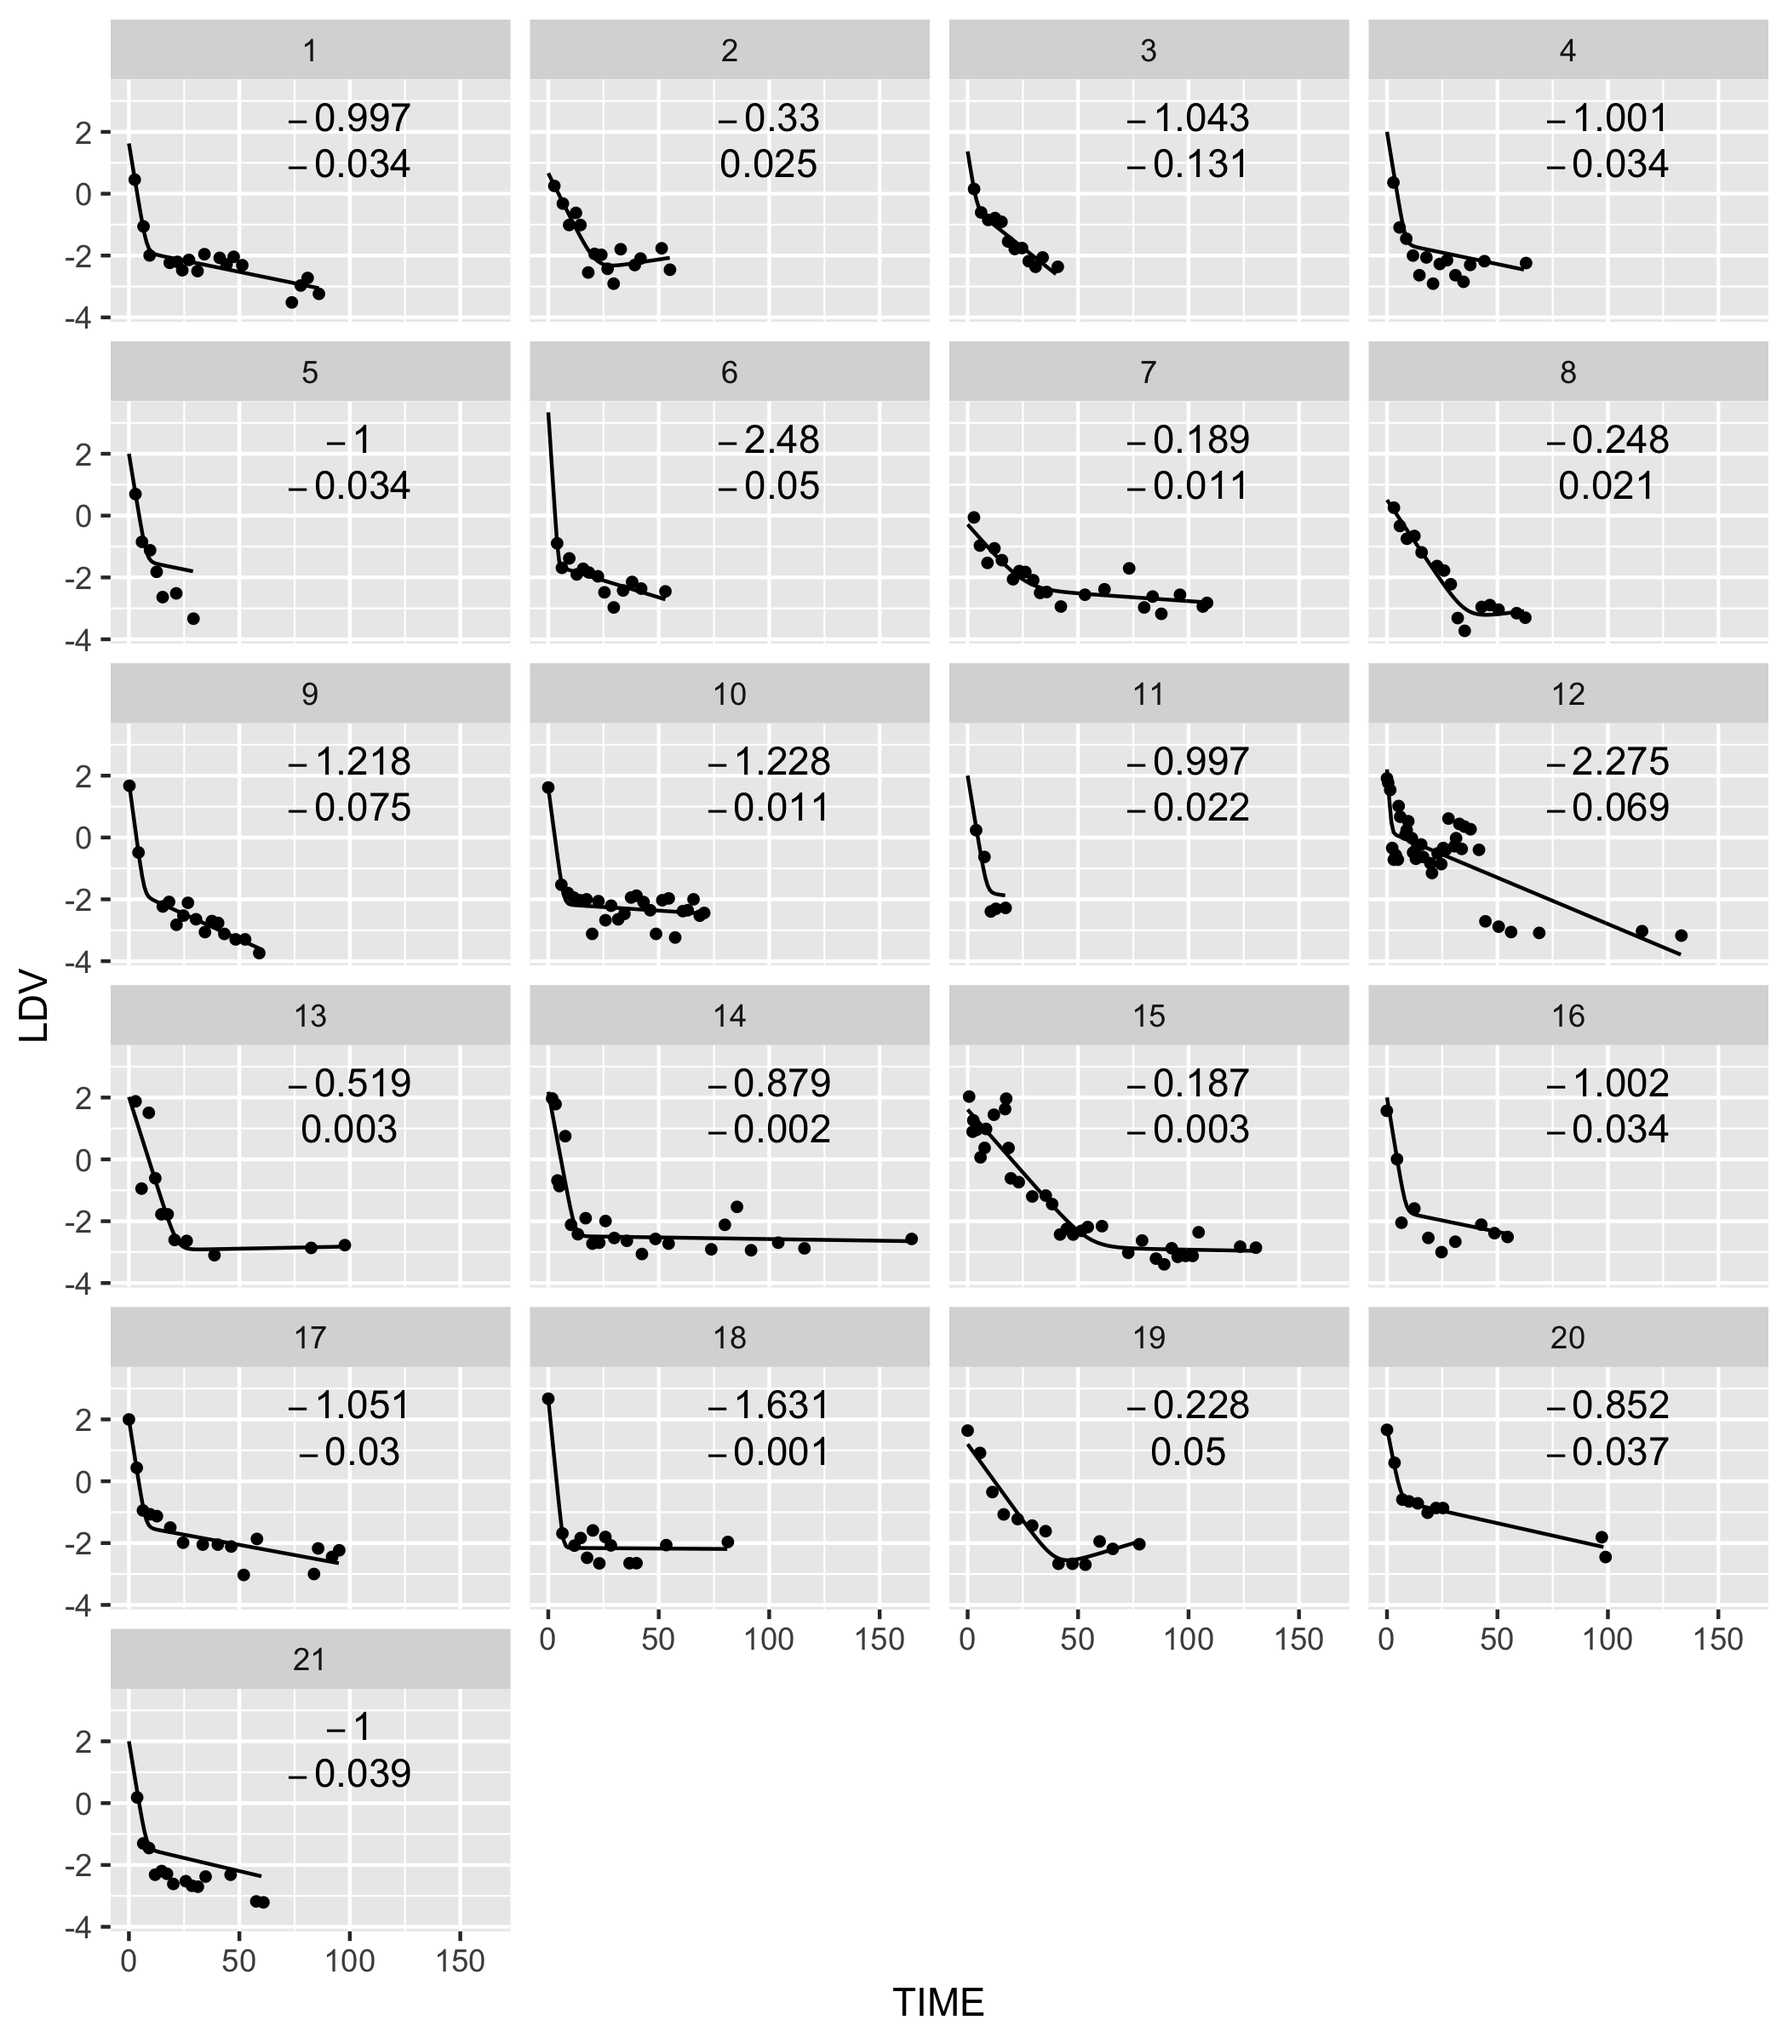
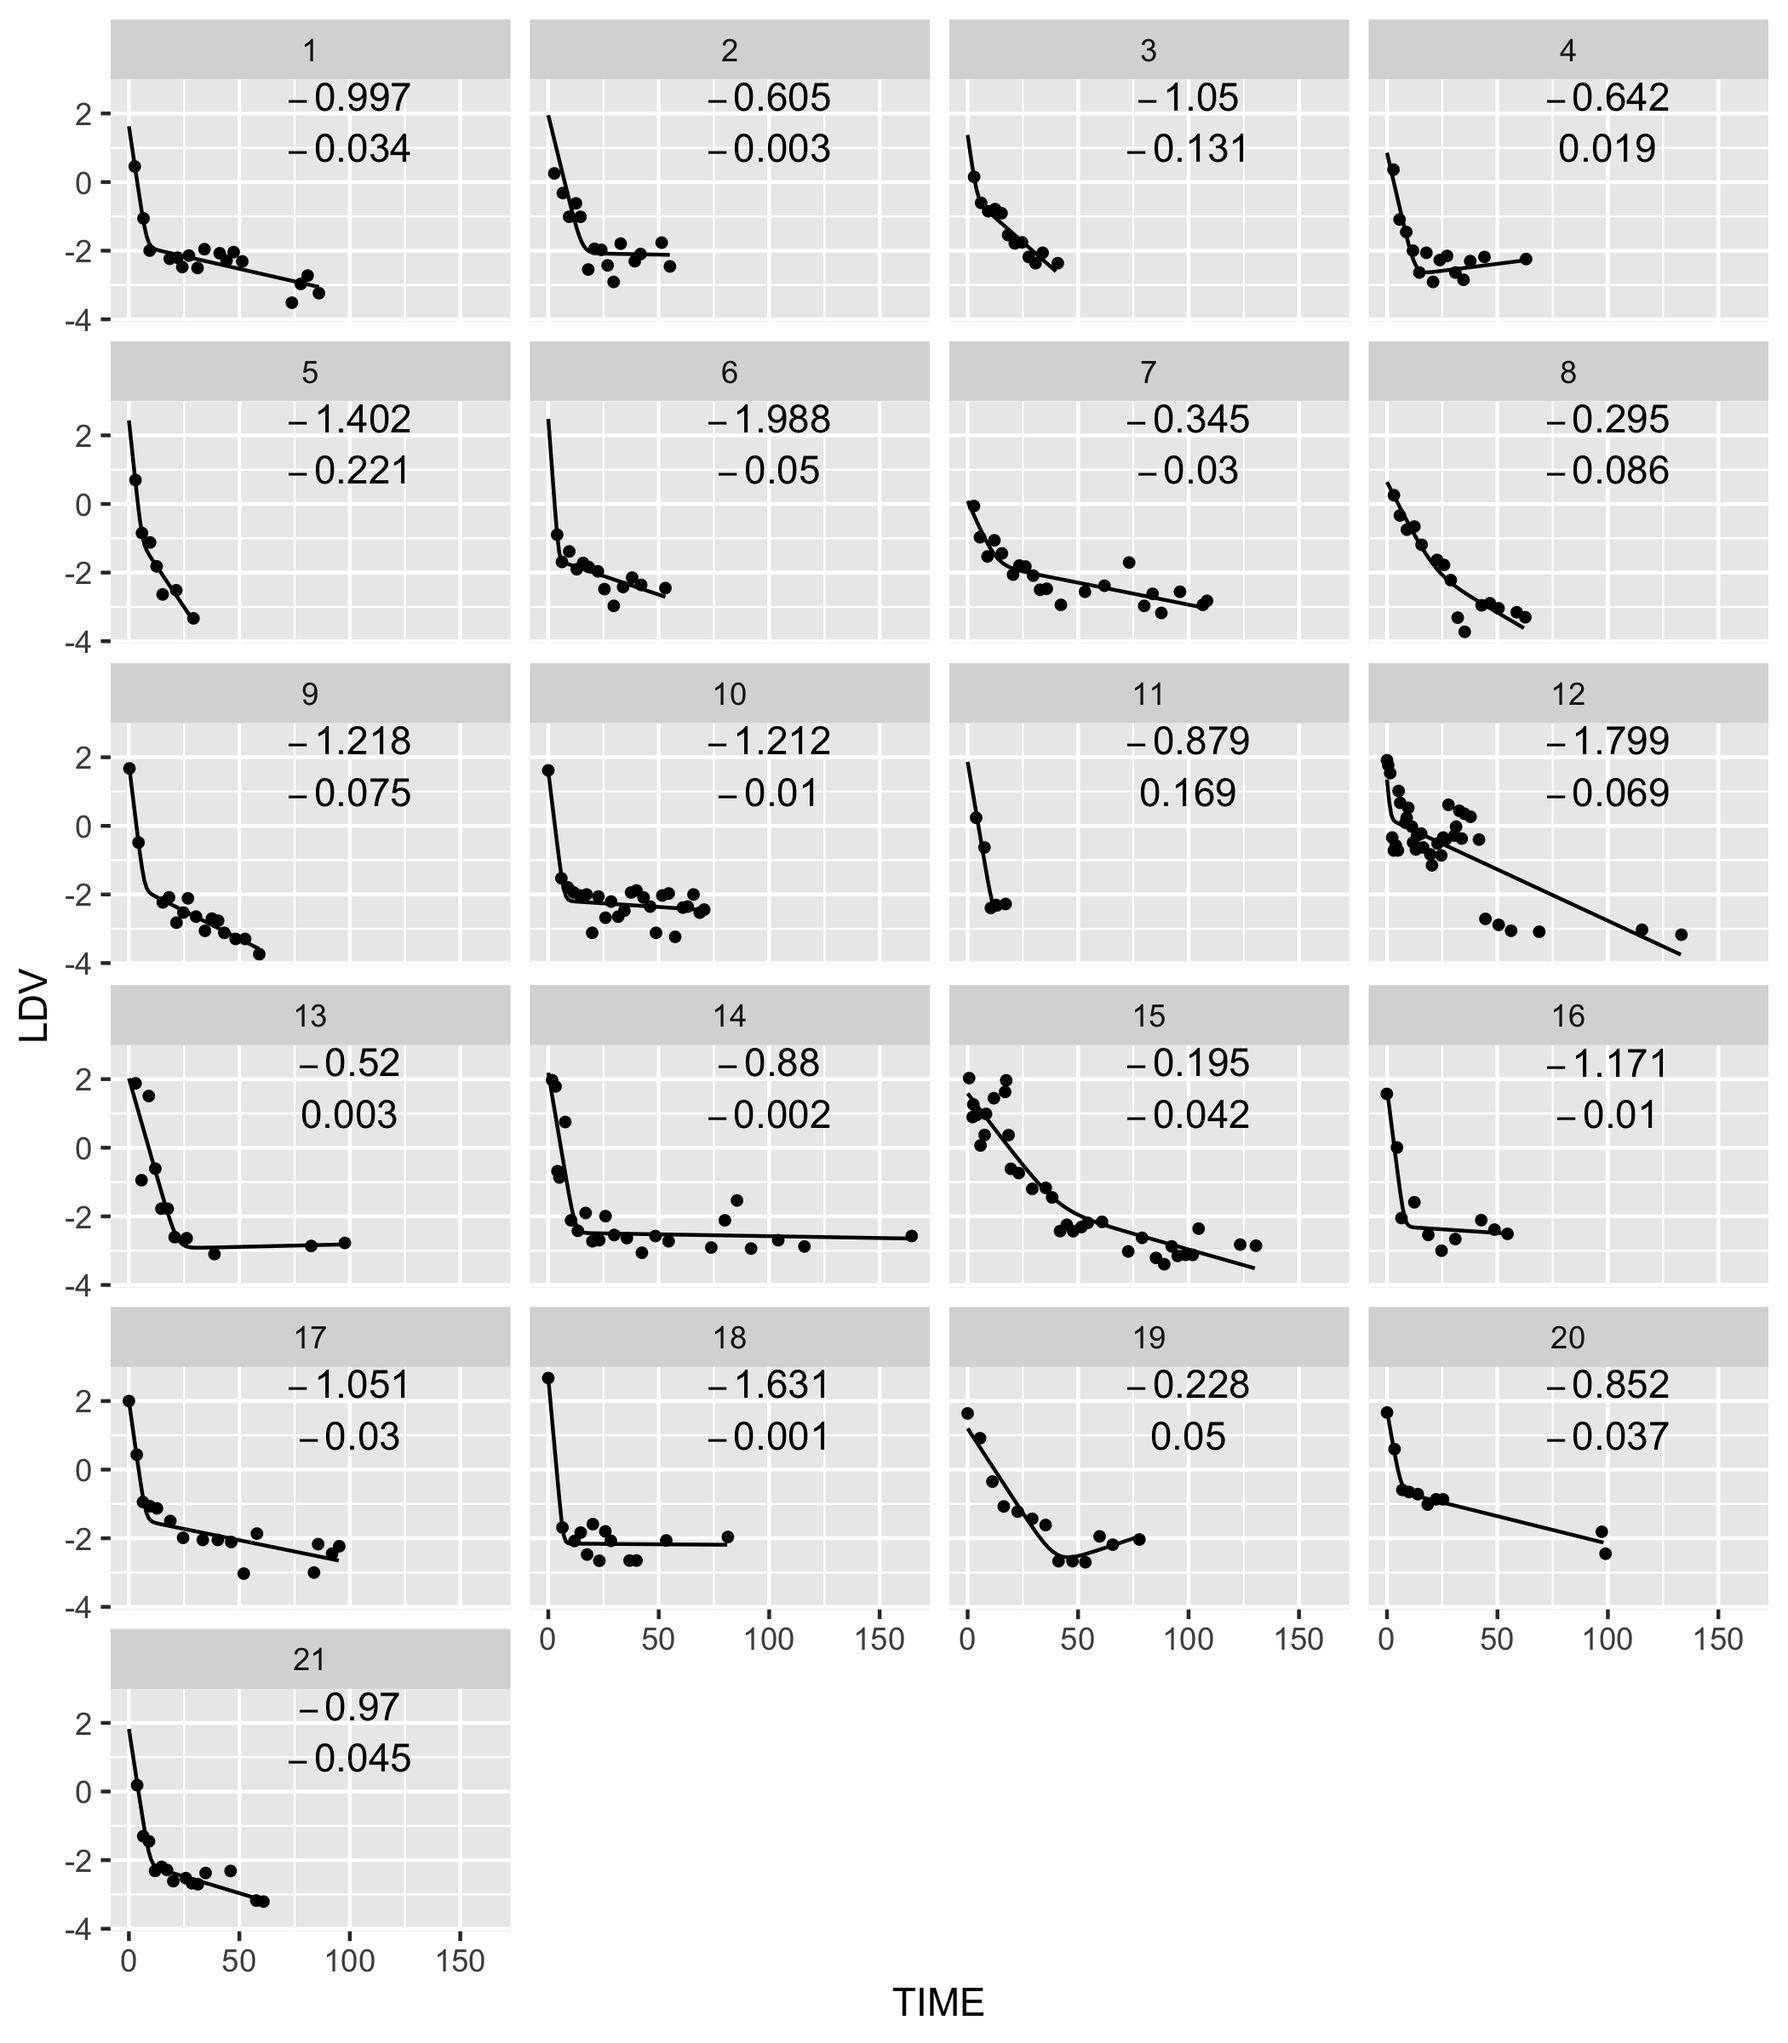
refit hahnel in days up to 365

diff --git a/CML/hahnel20/alphasNbetas/README.md b/CML/hahnel20/alphasNbetas/README.md
@@ -63,6 +63,7 @@ DTxb=DTx
 DTxb$LDV=1
 d%>%ggplot(aes(x=TIME,y=LDV))+facet_wrap(ID~.,ncol=4)+geom_point(size=1)+
    geom_line(data=D)+geom_text(aes(label=a),data=DTx,parse=T)+geom_text(aes(label=b),data=DTxb,parse=T)
+setwd("~/githubs/myelo/CML")
 ggsave("../docs/alphaNbetaDataNfits.png",width=7,height=8)
 ```
 
@@ -497,3 +498,74 @@ and for nlmixr
 
 ![](../../../docs/MIXCL.png)
 
+
+
+To compare results to those of Michor et al 2005, time is converted to days 
+and limited to the first 365. 
+
+```
+head(d)
+d1y=d%>%mutate(TIME=30.5*TIME)%>%filter(TIME<365)
+(startvec <- c(lA = log(100), alpha = -0.05, lB=log(0.1), beta = -0.005))
+nform <- ~ log(exp(lA+alpha*input) + exp(lB+beta*input))
+nfun <- deriv(nform, namevec=c("lA", "alpha", "lB", "beta"),
+              function.arg=c("input","lA", "alpha", "lB", "beta"))
+nfun
+(M<-nlmer(LNDV ~ nfun(TIME, lA, alpha, lB, beta) ~ (lA|ID) + (alpha|ID) +(lB|ID) + (beta|ID),
+                        data=d1y,start = startvec,
+      nAGQ = 0L,
+      control = nlmerControl(tolPwrss = 1e-4)) )
+(fe=fixef(M))
+(RE=ranef(M)$ID)
+apply(RE,2,mean) #check
+(P=RE+t(t(rep(1,21)))%*%t(fe))
+P=P%>%mutate(lA=exp(lA),lB=exp(lB))%>%rename(A=lA,B=lB)
+P=lapply(1:21,function(i) unlist(P[i,]))
+(d21y=d1y%>%group_by(ID)%>%summarize(Tf=max(TIME)))
+d21y$Tpred=lapply(d21y$Tf,function(x) seq(0,x))
+
+(D=mapply(simY,P,d21y$Tpred,1:21,SIMPLIFY = F))
+(D=data.table(bind_rows(D)))
+names(D)=c("TIME","LDV","ID")
+mkDF=function(x) data.frame(TIME=250,LDV=2.5,a=round(x[["alpha"]],3),b=round(x[["beta"]],3))
+(DTx=bind_rows(lapply(P,mkDF)))
+DTx$ID=1:21
+DTxb=DTx
+DTxb$LDV=1
+d1y%>%ggplot(aes(x=TIME,y=LDV))+facet_wrap(ID~.,ncol=4)+geom_point(size=1)+
+  geom_line(data=D)+geom_text(aes(label=a),data=DTx,parse=T)+geom_text(aes(label=b),data=DTxb,parse=T)
+ggsave("../docs/alphaNbetaFitsLME4d1y.png",width=7,height=8)
+
+```
+
+![](../../../docs/alphaNbetaFitsLME4d1y.png)
+This shows that the rate constants all shrank to the population mean. 
+
+
+Looking at the random effects
+```
+> RE
+   lA alpha         lB beta
+1   0     0 -1.1721089    0
+2   0     0  0.3703322    0
+3   0     0  0.2168800    0
+4   0     0 -1.1838943    0
+5   0     0 -0.1784630    0
+6   0     0 -1.1395010    0
+7   0     0 -0.8421898    0
+8   0     0  0.5092889    0
+9   0     0 -0.1917855    0
+10  0     0 -1.5505433    0
+11  0     0 -0.9056834    0
+12  0     0  1.8923407    0
+13  0     0  2.2577791    0
+14  0     0  0.3605456    0
+15  0     0  3.3665251    0
+16  0     0 -1.4363420    0
+17  0     0 -0.1196345    0
+18  0     0 -1.5758449    0
+19  0     0  2.0487526    0
+20  0     0  0.6604085    0
+21  0     0 -1.3868622    0
+```
+only the amplitude parameter B varies across patients.  

diff --git a/CML/michor05/README.md b/CML/michor05/README.md
@@ -1,7 +1,6 @@
 #  Dynamics of Chronic Myeloid Leukaemia  
 ## Michor et al, Nature (2005). 
-Modeled were stem (0)-, progenitor (1)-, differentiated (2)-, and terminal (3) normal (X) 
-and CML sensitive (Y) and resistant (Z) cells as
+This model represents stem (0)-, progenitor (1)-, differentiated (2)-, and terminally differentiated (3) cells that are normal (X) or cancerous. Cancerous (CML) cells and either sensitive (Y) or resistant (Z) to TKI; normal cells are resistant to TKI. In R the model is
 ```
 michor05<-function(Time, State, Pars) {
 	with(as.list(c(State, Pars)), {
@@ -11,8 +10,8 @@ michor05<-function(Time, State, Pars) {
 				}
 				lambda<- function(x,sp) -0.5*(x-sp)
 # lambda is a controller that manipulates inflow
-# to move a leaky tank level (x) toward setpoint (sp)
-				dX0 = (lambda(X0,X0sp)-d0)*X0
+# to move a level (x) toward setpoint (sp)
+				dX0 = (lambda(X0,X0sp)-d0)*X0 
 				dX1 = ax*X0-d1*X1
 				dX2 = bx*X1-d2*X2
 				dX3 = cx*X2-d3*X3
@@ -32,8 +31,7 @@ michor05<-function(Time, State, Pars) {
 }
 ```
 
-The following shows how a setpoint(sp)-sized bolus of stem cells repopulates vacant pools down to 
-mature granulocytes.
+The following shows how a setpoint(sp)-sized bolus of stem cells repopulates pools downstream.
 
 ```
 library(tidyverse)
@@ -62,7 +60,7 @@ ggsave("../docs/michorSim.png",width=4,height=6)
 
 
 
-Captured by WebPlotDigitizer, data in Fig. 5 is plotted by this code
+Data in Fig. 5, obtained via WebPlotDigitizer, is shown by this code
 ```
 library(myelo)
 head(d<-michor)
